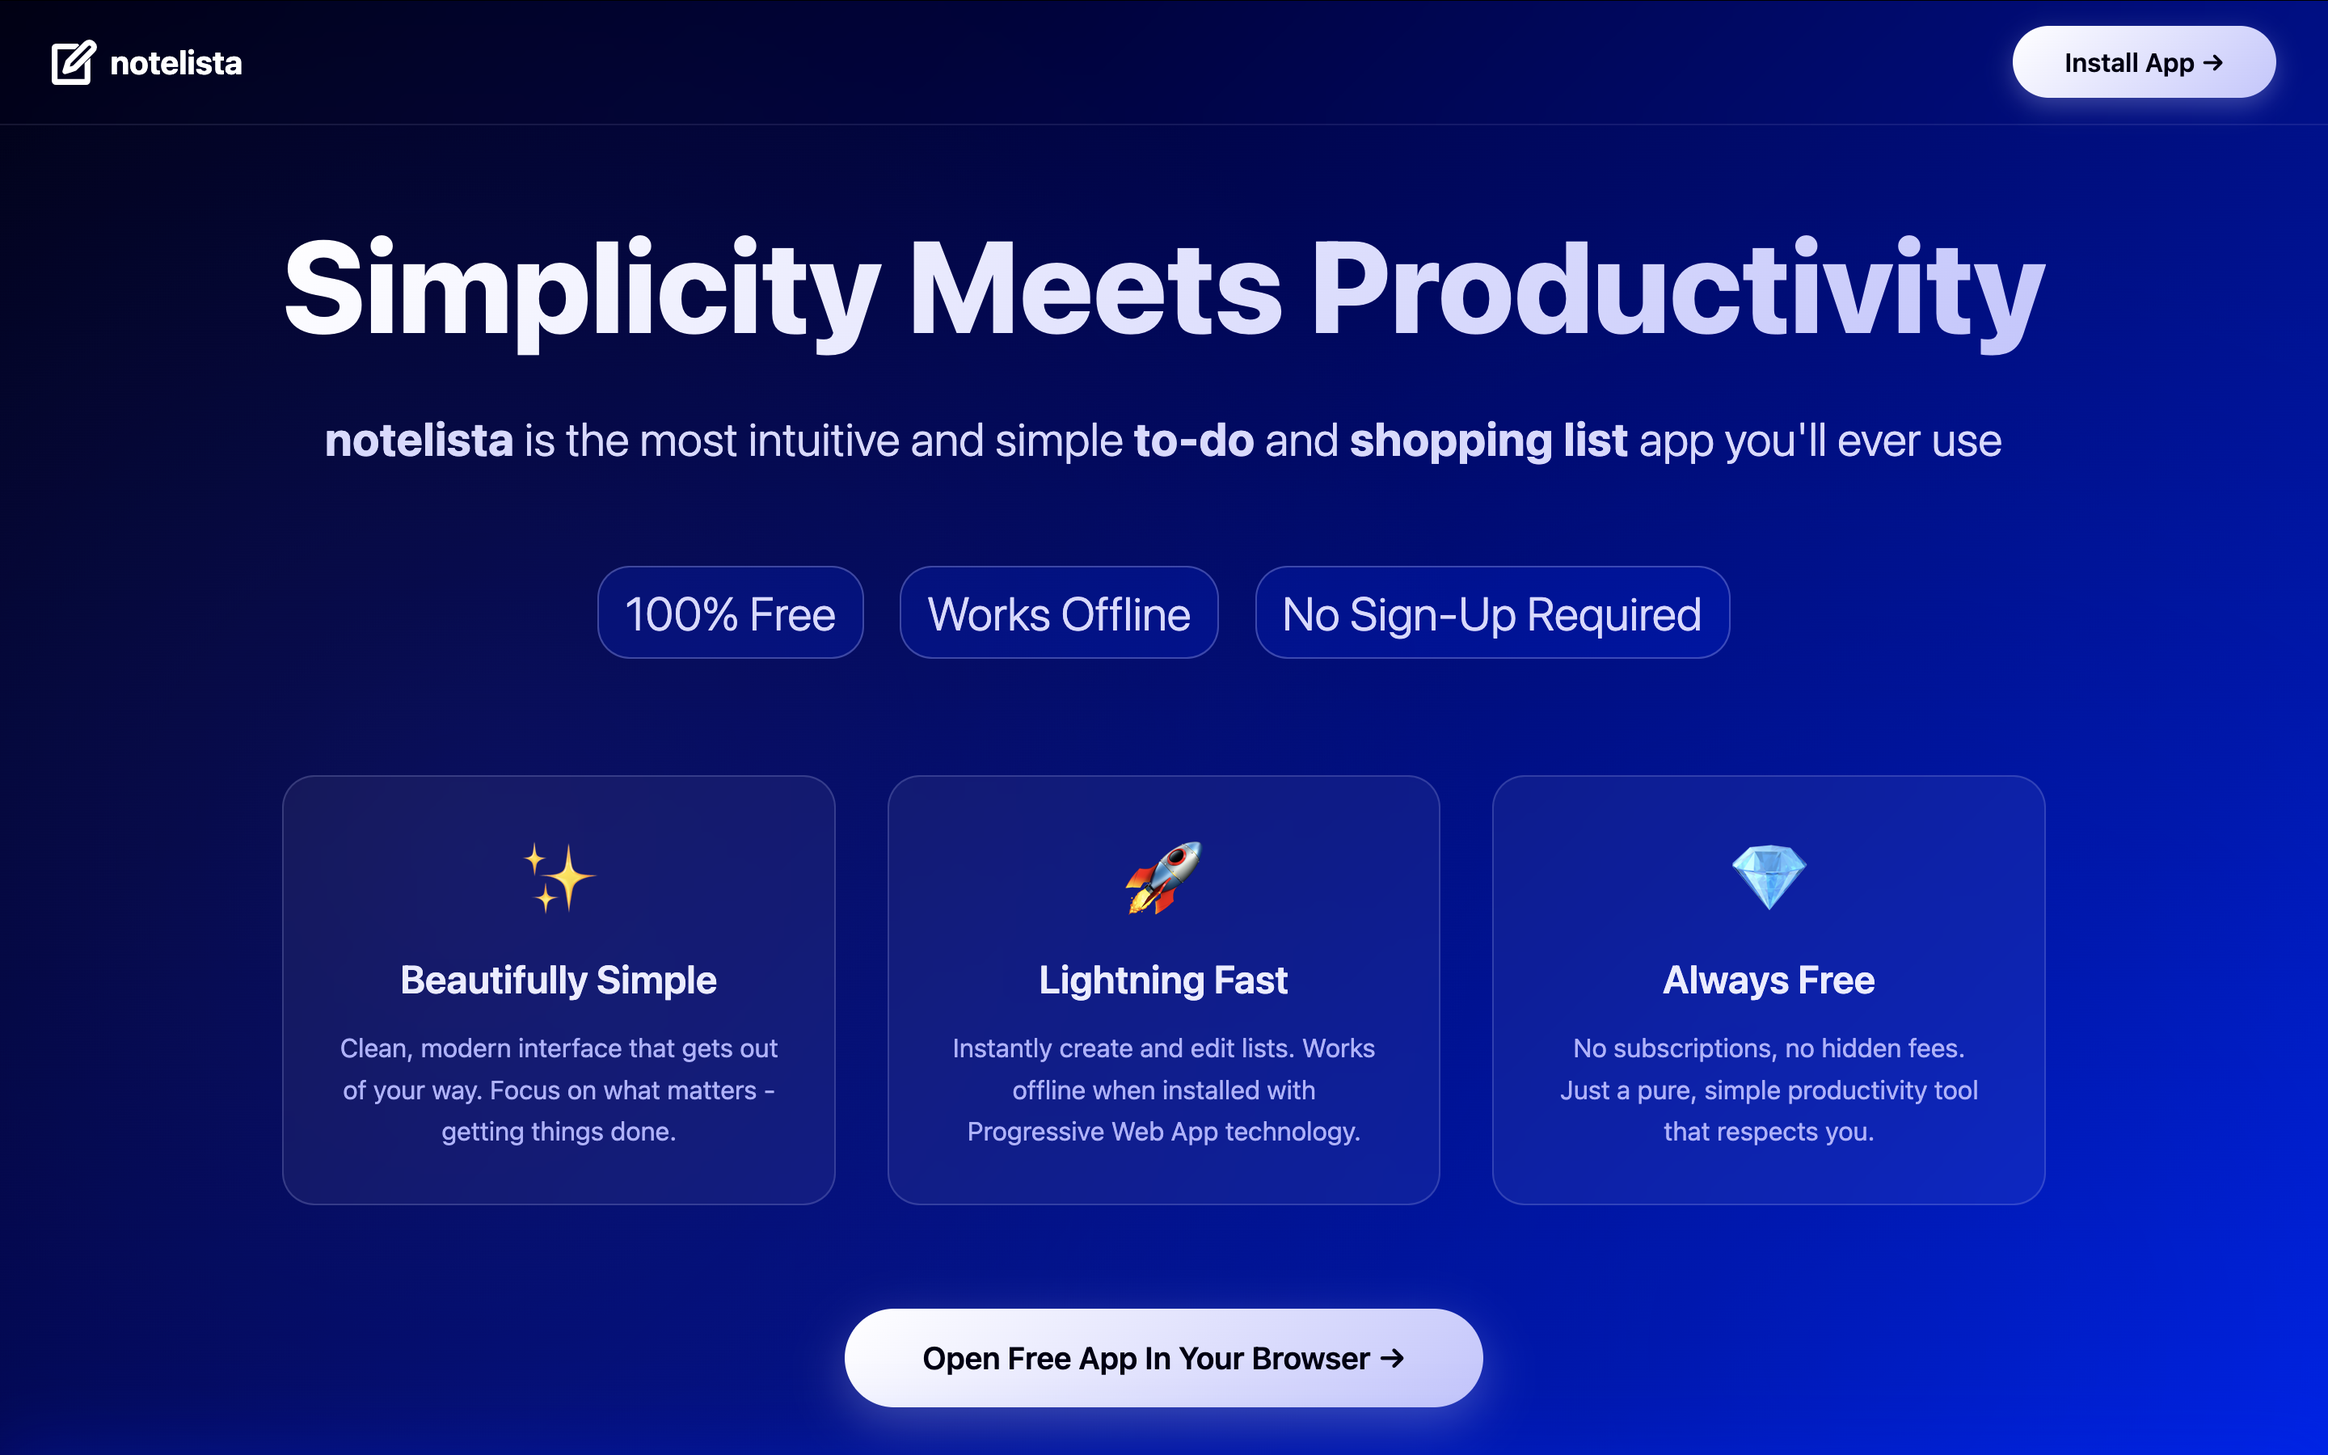
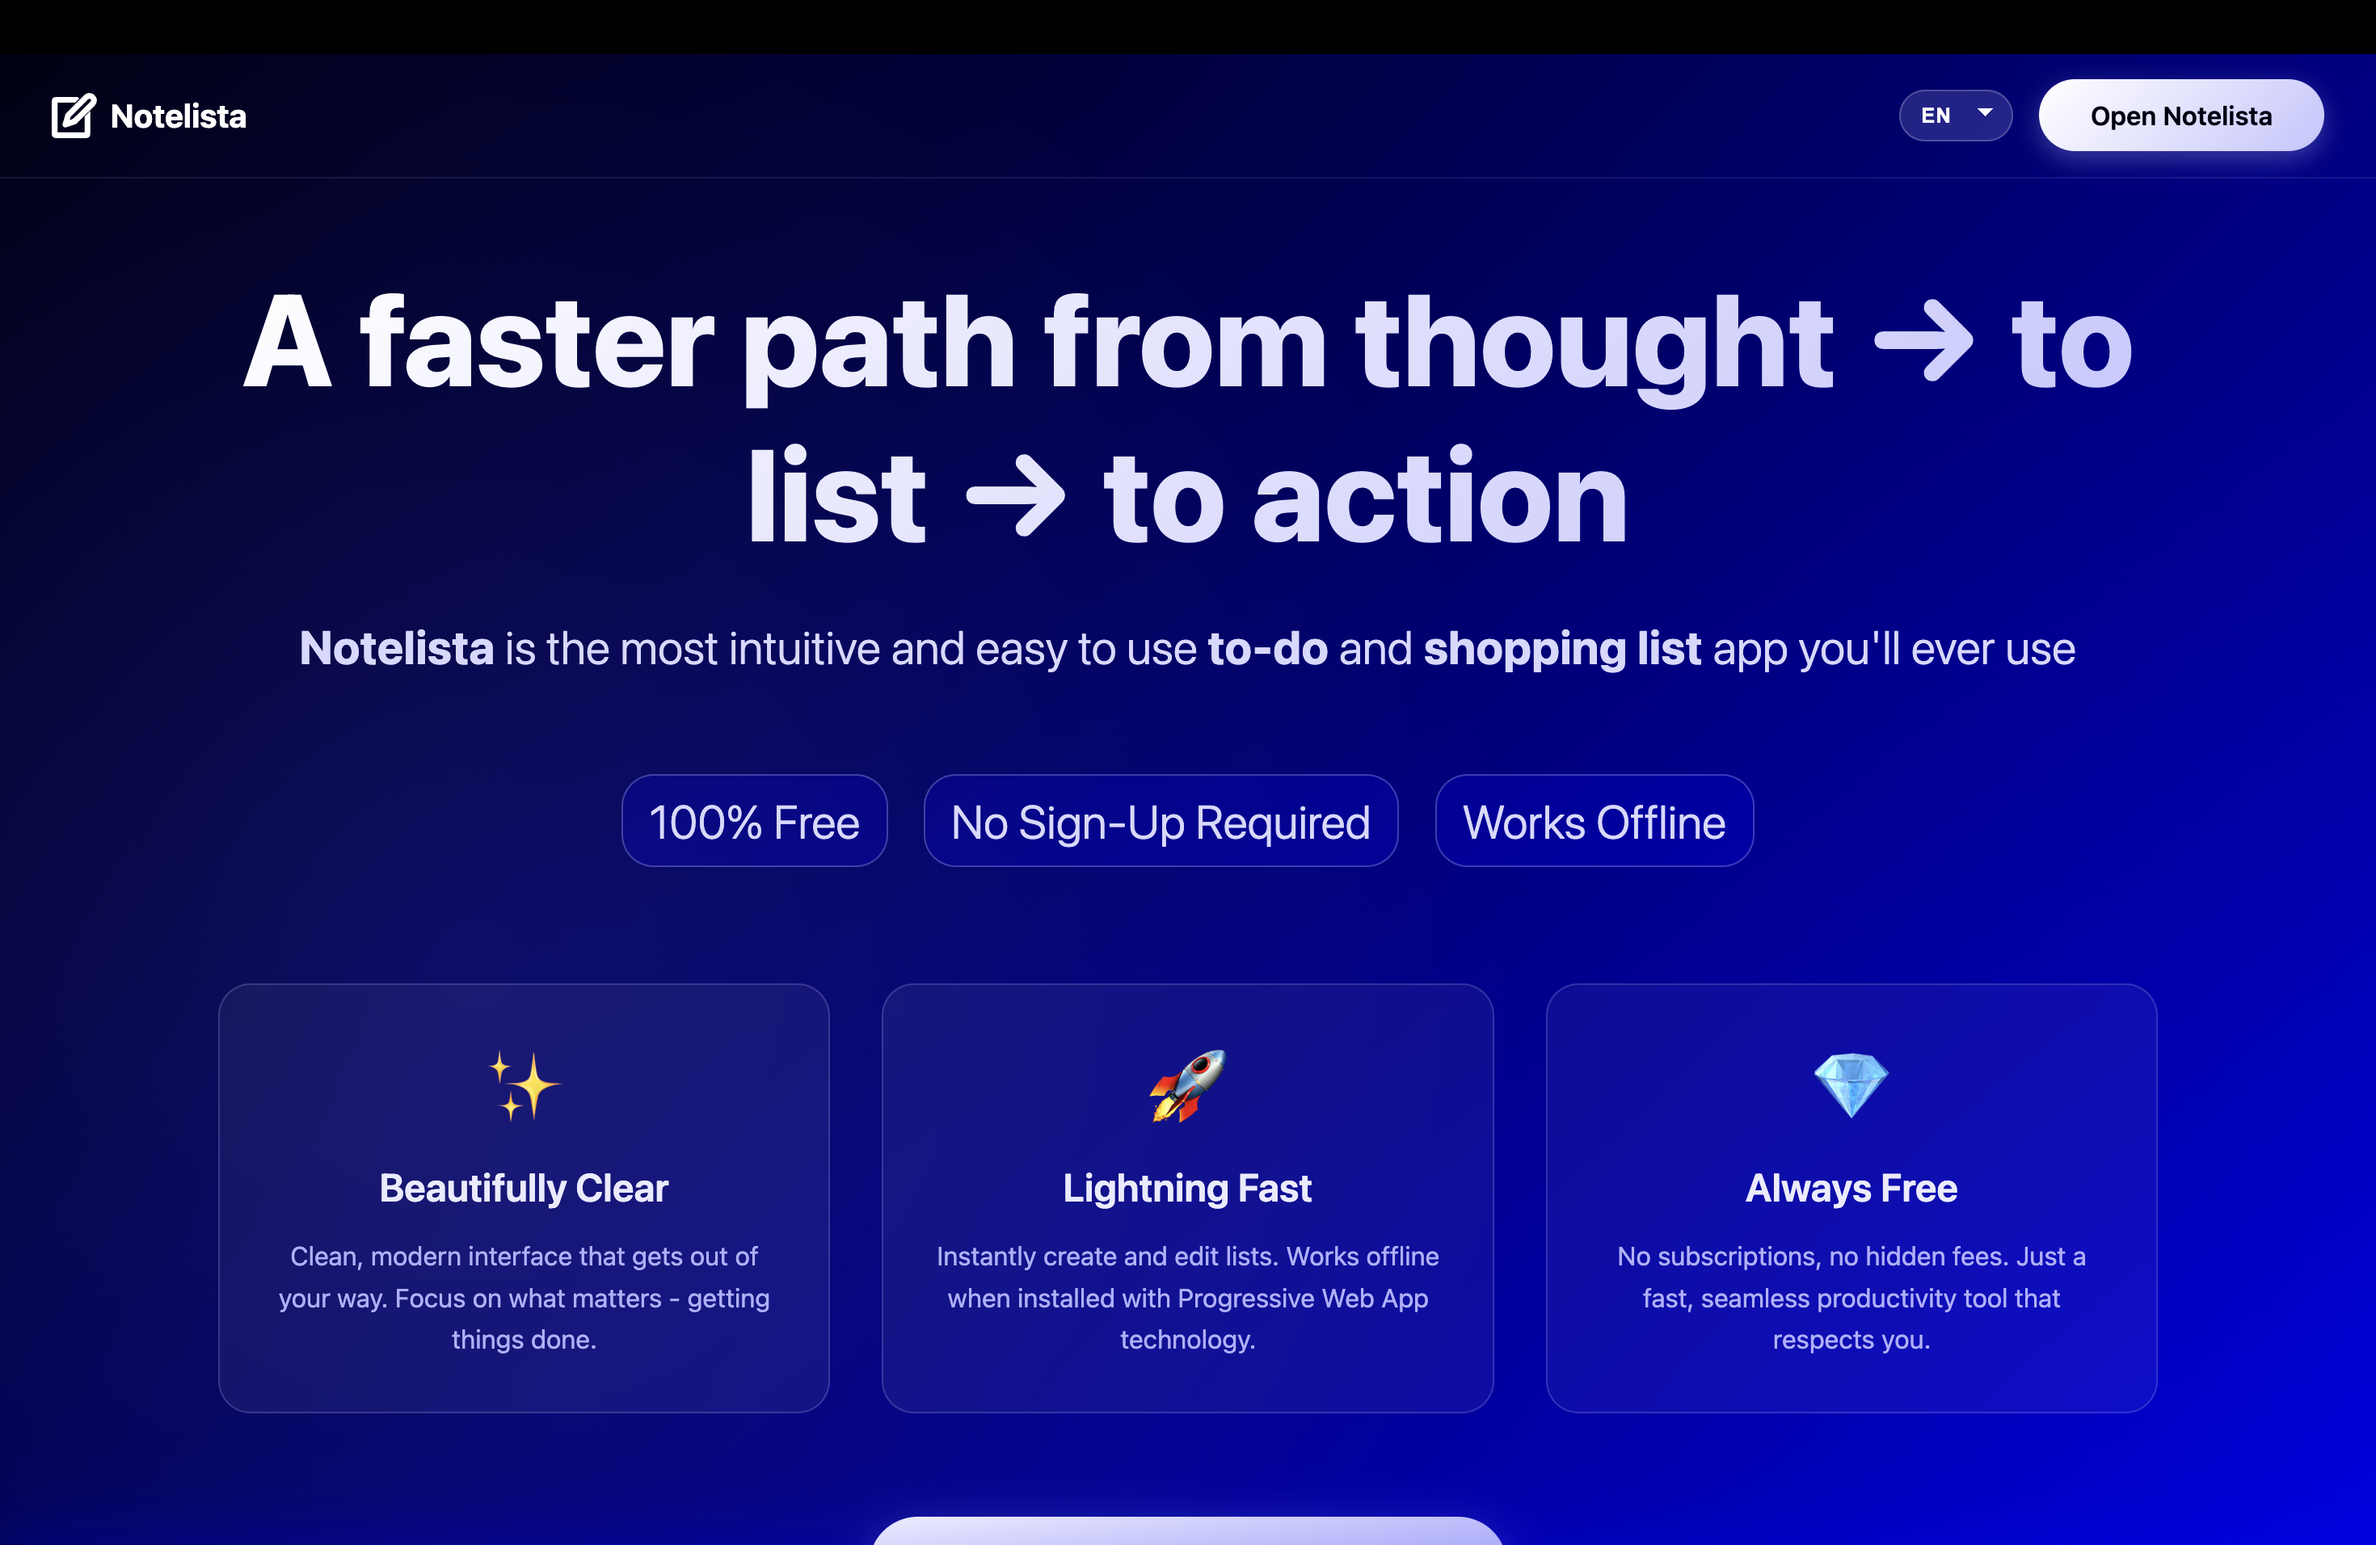
Notelista updates

diff --git a/components/Notelista.jsx b/components/Notelista.jsx
@@ -30,7 +30,7 @@ export default function Notelista() {
                 style={{ maxWidth: "100%" }}
             />
             <p style={{ textAlign: "center", fontSize: "16px", color: "gray" }}>
-                Link to the shipped notelista.com landing page and app{" "}
+                Link to the shipped notelista.com landing page and web app{" "}
                 <a
                     href="https://notelista.com/"
                     target="_blank"
@@ -40,14 +40,14 @@ export default function Notelista() {
                     <strong className="italic">https://notelista.com ↗</strong>
                 </a>
             </p>
-            <h2>What is notelista?</h2>
+            <h2>What is Notelista?</h2>
             <p>
                 <a
                     href="https://notelista.com/"
                     target="_blank"
                     rel="noopener noreferrer"
                 >
-                    <strong className="italic">notelista ↗ </strong>
+                    <strong className="italic">Notelista ↗ </strong>
                 </a>{" "}
                 is a Progressive Web App I designed and developed as a{" "}
                 <strong className="italic">0-1 Product Manager and Builder</strong>. The
@@ -114,7 +114,7 @@ export default function Notelista() {
                     By
                     <span className="italic"> eliminating friction </span>
                     points like mandatory registration and complex navigation
-                    notelista delivers:
+                    Notelista delivers:
                 </h4>
                 <ul className="no-bullets two-col">
                     <li>
